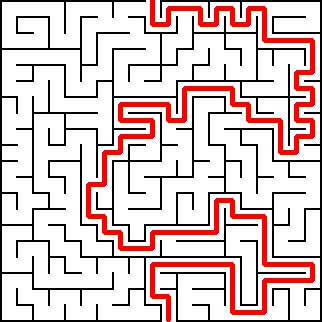
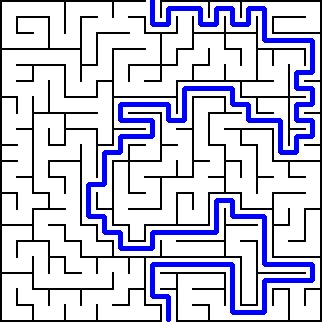
Update README.md

Changed region(s): [[0.2484, 0.0, 0.9938, 1.0]]

diff --git a/maze_solver.py b/maze_solver.py
@@ -10,30 +10,33 @@ import cv2 as cv
 start_time = time.time()
 
 #FILENAME FORMAT:  "{X_GRID} BY {Y_GRID}... .png" 
-filename = '200 by 200 orthogonal maze.png'    
+#filename = "Maze_examples/200 by 200 orthogonal maze.png"
+filename = input("Type the path to file of the maze image:\n")
+mesh = input('Enter the mesh size separeted by space. e.g. "20 20":\n')
 maze = cv.imread(filename)
 
 height, width = maze.shape[:2] #in pixels
-mash_j, mash_i = (int(filename.split()[0]), int(filename.split()[2]))
+#mesh_j, mesh_i = (int(filename.split()[0]), int(filename.split()[2]))
+mesh_j, mesh_i = int(mesh.split()[0]), int(mesh.split()[1])
 
-
-cell_size = int(height/mash_i) , int(width/mash_j)
+print(mesh_j, mesh_i)
+cell_size = int(height/mesh_i) , int(width/mesh_j)
 cell_center = (int(cell_size[0]/2), int(cell_size[1]/2))
 
 
 
 class Cell:
-      """defines the paths through the cells over the mash """
+      """defines the paths through the cells over the mesh """
      
       def __init__(self, index_i, index_j):
-            global cell_size, height, width, maze, mash_i, mash_j
+            global cell_size, height, width, maze, mesh_i, mesh_j
              
             self.i = index_i
             self.j = index_j
             self.height = height
             self.width = width
             self.cell_size_x, self.cell_size_y = (int(cell_size[0]), int(cell_size[1]))   
-            (self.mash_i, self.mash_j) = (mash_i, mash_j)
+            (self.mesh_i, self.mesh_j) = (mesh_i, mesh_j)
             self.maze = maze
             self.tol =1               
          
@@ -95,11 +98,11 @@ class Cell:
         Dest=[] #list of possibele destinations of each cell 
         if self.j!=0 and self.left_pass()==True:
             Dest.append((self.i, self.j-1))
-        if self.j!=(self.mash_j-1) and self.right_pass()==True:
+        if self.j!=(self.mesh_j-1) and self.right_pass()==True:
             Dest.append((self.i, self.j+1))
         if self.i!=0 and self.top_pass()==True:
             Dest.append((self.i-1, self.j))
-        if self.i!=(self.mash_i-1) and self.bottom_pass()==True:
+        if self.i!=(self.mesh_i-1) and self.bottom_pass()==True:
             Dest.append((self.i+1, self.j)) 
         return Dest
 
@@ -112,26 +115,26 @@ def Path():
     Destinations=[]
     Nodes=[]
 
-    for i in range(mash_i):
+    for i in range(mesh_i):
         line = []
-        for j in range(mash_j):
+        for j in range(mesh_j):
             dest =  Cell(i,j).go_to()
             line.append(dest)
             if i==0 and Cell(i,j).top_pass()==True:
                 start = (i,j)
                 if len(dest)>1:
                     Nodes.append((i,j))
-            if i==(mash_i-1) and Cell(i,j).bottom_pass()==True:
+            if i==(mesh_i-1) and Cell(i,j).bottom_pass()==True:
                 end = (i,j)
                 if len(dest)>1:
                     Nodes.append((i,j))
             if len(dest)>2 :
                 Nodes.append((i,j))
         Destinations.append(line)
-    print(Destinations[0][0])
+
         
     #start = (0,250)
-    #end= (mash_i-1, 250)    
+    #end= (mesh_i-1, 250)    
     Dest_sol =copy.deepcopy(Destinations)
     prev_step = start
     Block =[]    
@@ -177,8 +180,7 @@ def Path():
                   
             
 def draw_path():
-    Dest, Branches, end, start = Path()  
-      
+    Dest, Branches, end, start = Path()        
     
     #creates a clean list of points of the solution
     Br=[]
@@ -195,24 +197,24 @@ def draw_path():
         for cell in branch:
             #cv.circle(maze, Cell(cell[0], cell[1]).to_coord() , 3, [0, 150, 255],-1)
             if cell != Dots[-1]:
-                Dots.append(cell)       
-    
+                Dots.append(cell)  
+    #dwaw the path lines 
+    for i in range(len(Dots)-1):        
+        coord1 = Cell(Dots[i][0], Dots[i][1]).to_coord()
+        coord2 = Cell(Dots[i+1][0], Dots[i+1][1]).to_coord()
+        
+        cv.line(maze, coord1, coord2 , [255, 0, 0], 3)
     
     # draws a small datail of start and end 
     coord_start = Cell(Dots[0][0], Dots[0][1]).to_coord()
     coord_start = (coord_start[0], coord_start[1]- int(cell_size[1]/2))
     coord_end = Cell(Dots[-1][0], Dots[-1][1]).to_coord()
     coord_end = (coord_end[0], coord_end[1]+int(cell_size[1]/2))
-    cv.line(maze, coord_start, Cell(Dots[0][0], Dots[0][1]).to_coord() , [0, 0, 255], 3)
-    cv.line(maze, coord_end, Cell(Dots[-1][0], Dots[-1][1]).to_coord() , [0, 0, 255], 3)
+    cv.line(maze, coord_start, Cell(Dots[0][0], Dots[0][1]).to_coord() , [255, 0, 0], 3)
+    cv.line(maze, coord_end, Cell(Dots[-1][0], Dots[-1][1]).to_coord() , [255, 0, 0], 3)
     
-    #dwaw the path lines 
-    for i in range(len(Dots)-1):        
-        coord1 = Cell(Dots[i][0], Dots[i][1]).to_coord()
-        coord2 = Cell(Dots[i+1][0], Dots[i+1][1]).to_coord()
-        
-        cv.line(maze, coord1, coord2 , [0, 0, 255], 3)
-    cv.imwrite(f'SOLUTION{mash_i}x{mash_j}.png',maze)
+
+    cv.imwrite(f'SOLUTION{mesh_i}x{mesh_j}.png',maze)
     
     #elapsed time
     end_time = time.time()

diff --git a/README.md b/README.md
@@ -1,7 +1,11 @@
-#Maze solver 
+# Maze solver 
 
-Python code that solves mazes similar to www.mazegenerator.net/
+Python code that solves mazes similar to [www.mazegenerator.net](www.mazegenerator.net)
 
+## Unsolved input 
 ![20 by 20 unsolveld maze](./'20 by 20 orthogonal maze.png')
 
-![20 by 20 solveld maze](./SOLUTION20x20.png)
+## Solved output
+![20 by 20 solveld maze](./'SOLUTION20x20.png')
+
+
